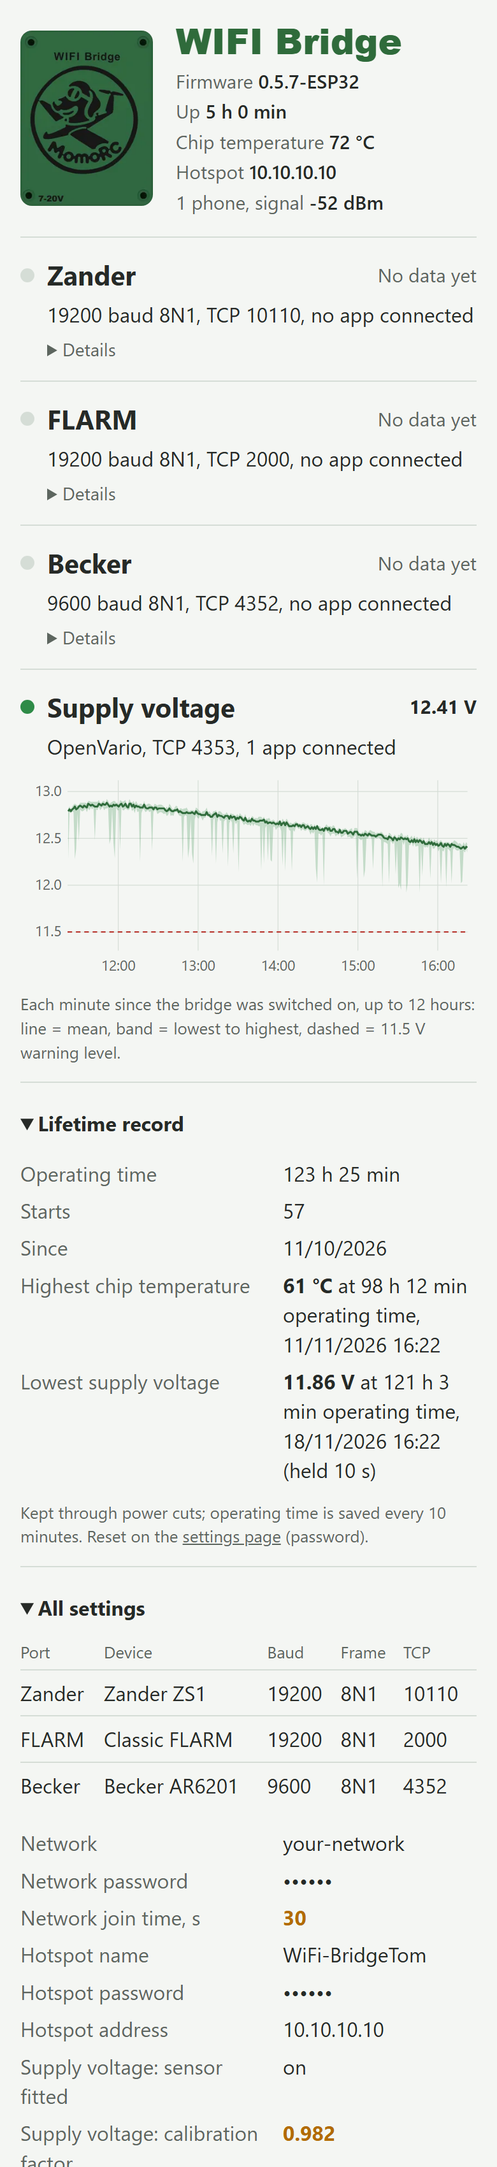
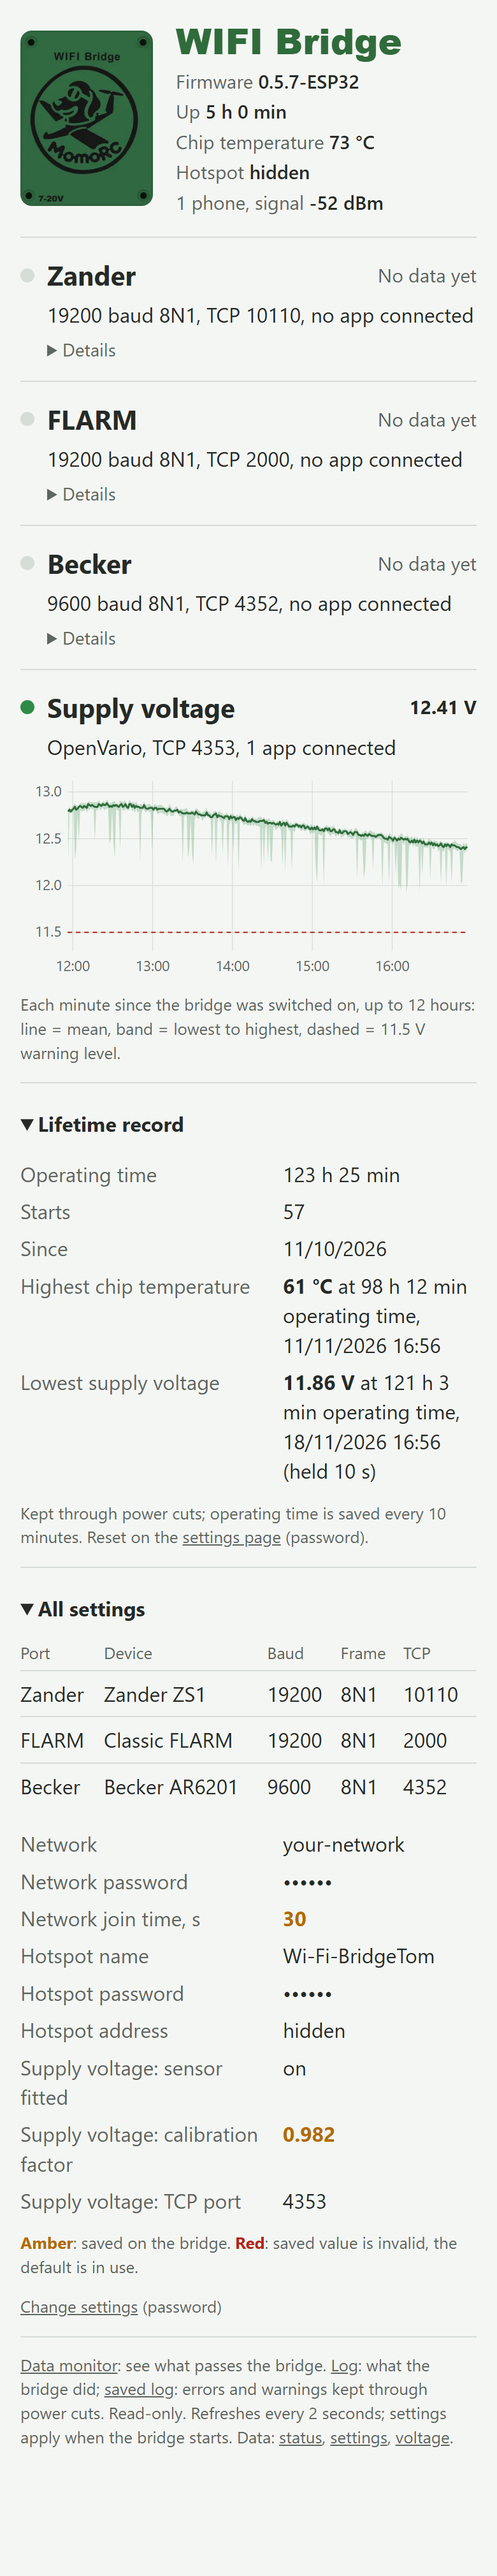
Record wired voltage checks in WP3
Record the wired XCSoar voltage, sensor-off, and chart restart checks in WP3, cite S158, and refresh the sanitized status and settings screenshots.

Owner-reported bench results: XCSoar displayed 12.1 V; the PC received nine checksum-valid sentences; 35 chart points and calibration survived both settings restarts; stored settings were restored. The live chart and refreshed screenshots were visually checked, relative links and whitespace were checked, and the monitor rerender was byte-identical. No firmware changed.

diff --git a/docs/project/roadmap.md b/docs/project/roadmap.md
@@ -7,7 +7,7 @@
 The single work queue: which work package comes next and what finishes it.
 
 > [!NOTE]
-> **Status:** WP3 continues with bench validation: the bench bridge is built and powered up (S141). In the [bridge firmware plan](#firmware-plan) (WP6), steps 1–3b are done. Step 3c, a web log, is done on the standalone ESP32. Step 3d, the [supply voltage](#supply-voltage) with its chart, is in firmware 0.5.1 on the standalone ESP32 (S123); wired readings are recorded in S142/S148. The full meter comparison and app display check remain. Step 3e shows the ESP32's [chip temperature](../../firmware/bridge/README.md#chip-temperature), firmware 0.5.2. Step 3f keeps a [lifetime record](../../firmware/bridge/README.md#lifetime-record) through power cuts, firmware 0.5.3; step 3g a [saved log](../../firmware/bridge/README.md#saved-log) of errors and warnings, firmware 0.5.4. The wired bridge runs firmware 0.5.7 with [navigation detection](#navigation-detection) (S154). Step 4 passed on the wired bridge (S150, S153). Step 5 acceptance remains. The software part of the device profiles (WP9) is brought forward and runs on the standalone ESP32. The driver packages (WP4, WP5) wait until WP3 is complete. Work outside the approved plan needs the owner's approval.
+> **Status:** WP3 continues with bench validation: the bench bridge is built and powered up (S141). In the [bridge firmware plan](#firmware-plan) (WP6), steps 1–3b are done. Step 3c, a web log, is done on the standalone ESP32. In step 3d, XCSoar displays the wired bridge voltage and the chart survives a settings restart (S158). See the [firmware plan](#firmware-plan) for the remaining checks. Step 3e shows the ESP32's [chip temperature](../../firmware/bridge/README.md#chip-temperature), firmware 0.5.2. Step 3f keeps a [lifetime record](../../firmware/bridge/README.md#lifetime-record) through power cuts, firmware 0.5.3; step 3g a [saved log](../../firmware/bridge/README.md#saved-log) of errors and warnings, firmware 0.5.4. The wired bridge runs firmware 0.5.7 with [navigation detection](#navigation-detection) (S154). Step 4 passed on the wired bridge (S150, S153). Step 5 acceptance remains. The software part of the device profiles (WP9) is brought forward and runs on the standalone ESP32. The driver packages (WP4, WP5) wait until WP3 is complete. Work outside the approved plan needs the owner's approval.
 
 📑 **On this page:** <kbd>[1 · 📦 Work packages](#work-packages)</kbd> <kbd>[2 · 💻 Bridge firmware plan](#firmware-plan)</kbd> <kbd>[3 · 🏁 Milestones](#milestones)</kbd> <kbd>[4 · ✅ Test coverage for the software phase](#test-coverage)</kbd>
 
@@ -131,7 +131,7 @@ Each step: build, upload over Wi-Fi, check, update the owning pages, commit.
 | 3a | ✅ **Settings page.** Stored settings and a password-protected page, [design](#settings-page). Four commits: settings module used at start-up; active values and their origin on the status page; settings page; bench checks | Bench ESP32, phone | With nothing stored, the step 2 loop test passes unchanged. A changed baud rate works after the restart and survives an OTA update. A wrong network falls back to the hotspot. An unconfirmed Wi-Fi, hotspot or port change reverts after 10 min. A wrong password saves nothing. Power loss during a save leaves the old or the new values, never a mix. Forwarding is unaffected with the page open. Reset restores the defaults. Done (S109–S111), except the power-loss check, which needs the owner to pull the USB cable during a save. Not fixed, by owner decision: a power cut during the rollback of an unkept trial can leave a mix of previous and default values, and a failed save reports success ([review](../research/reviews/2026-11-19-firmware-0.5.4-review.md#rollback), S138) |
 | 3b | ✅ **Data monitor.** Live view of the bytes from and to each device on its own page `/monitor`, [design](#data-monitor) | Bench ESP32, phone, PC | Looped test data appears on the monitor in the right port and direction, NMEA as readable lines and radio bytes as hex; Pause and Download work; the loop test passes with the monitor open; nothing is collected while no one watches. Done (S112): byte-exact with the monitor open. Pause and Download still to try on a phone |
 | 3c | ✅ **Web log.** Event log page `/log` with level and source filters, Copy and Save, kept across a restart, [design](#web-log) | Bench ESP32, phone, PC | Start-up, Wi-Fi, app, radio and settings events appear with the right level and source; the filters, Copy and Save work on the phone; lines from before a restart stay readable with the reset reason; the loop test passes with the log open; nothing reaches a UART. Done (S116–S118); Copy and Save still to try on a phone |
-| 3d | **Supply voltage.** Measure the 12 V input and send it to OpenSoar on its own port, with a chart, [design](#supply-voltage). Firmware 0.5.1: settings, sensor-off behaviour, restart and loop test checked without a divider (S123). Wired bridge calibrated at 12.0 V, factor 0.982 (S142); error table recorded (S148) | Standalone ESP32 with the divider on a breadboard, bench supply, multimeter, phone with XCSoar or OpenSoar (same OpenVario voltage parsing, S155) | Readings match the meter at 7, 12, 14.6 and 20 V within about ±0.1 V after calibration (error table recorded); the OpenVario device on port 4353 shows the voltage in XCSoar or OpenSoar; the chart shows the minutes since start and survives a restart; with the sensor switched off nothing is sent; calibration survives a restart and an OTA update; the loop test passes with the voltage port connected; new page screenshots |
+| 3d | **Supply voltage.** Measure the 12 V input and send it to OpenSoar on its own port, with a chart, [design](#supply-voltage). Wired bridge: XCSoar display, chart retention, sensor switch and screenshots checked (S158). Calibration survived OTA (S142). The XT30 meter check covers 12 V (S142). Bench step 13 used the supply display up to 18 V (S148). The loop with a voltage client passed on the standalone ESP32 (S123) and awaits the wired bench run | Standalone ESP32 with the divider on a breadboard, bench supply, multimeter, phone with XCSoar or OpenSoar (same OpenVario voltage parsing, S155) | Readings match the meter at 7, 12, 14.6 and 20 V within about ±0.1 V after calibration (error table recorded); the OpenVario device on port 4353 shows the voltage in XCSoar or OpenSoar; the chart shows the minutes since start and survives a restart; with the sensor switched off nothing is sent; calibration survives a restart and an OTA update; the loop test passes with the voltage port connected; new page screenshots |
 | 3e | **Chip temperature.** Show the ESP32's own temperature on the status page and in the web log; no shutdown, [firmware](../../firmware/bridge/README.md#chip-temperature). Firmware 0.5.2: reading, log lines and loop test checked on the standalone ESP32 (S132) | Standalone ESP32, phone; wired bridge for the heat check | The page and `/api/status` show a value or *no reading*; the log has the first reading; the loop test passes; new page screenshots. In the [heat check](open-items.md#housing) the chip reading is logged next to the measured temperatures. Warning level 100 °C by owner decision, firmware 0.5.6 (S142) |
 | 3f | **Lifetime record.** Operating time, starts, highest chip temperature and lowest supply voltage kept in NVS through power cuts; shown on the status page, reset on the settings page, [firmware](../../firmware/bridge/README.md#lifetime-record). Firmware 0.5.3: records test, restart and write load checked (S134) | Standalone ESP32, phone | `tools/records_test.py` passes: password, reset, kept through a restart with one more start; values kept after pulling the USB cable; the acceptance test passes while the record is written every 2 s; new page screenshots |
 | 3g | **Saved log.** Errors, warnings and each start kept in LittleFS through power cuts, page `/saved`, cleared on the settings page, [firmware](../../firmware/bridge/README.md#saved-log). Firmware 0.5.4: records test, restart and write load checked (S135) | Standalone ESP32, phone | `tools/records_test.py` passes: start line and a warning saved, kept through a restart, clearing needs the password; lines kept after pulling the USB cable; the acceptance test passes while warnings are saved; new page screenshots |

diff --git a/docs/research/sources.md b/docs/research/sources.md
@@ -185,6 +185,7 @@ New evidence records the revision or page, the date, what was checked and its la
 | S155 | `src/Device/Driver/OpenVario.cpp`, master branches of [XCSoar](https://github.com/XCSoar/XCSoar/blob/master/src/Device/Driver/OpenVario.cpp) and [OpenSoar](https://github.com/OpenSoaring/OpenSoar/blob/master/src/Device/Driver/OpenVario.cpp), read 2026-11-20 | Both `POV()` parsers handle type `V` with the same code: the value goes to `info.voltage` and sets `voltage_available`, with no unit conversion. XCSoar also handles types the OpenSoar version lacks (`a`, `g`, `L`, `e`). Not checked: the installed app versions, the InfoBox that shows the value. |
 | S156 | Owner report on the assembled bench bridge, 2026-11-20 | Housing fit and assembly of the bench build: boards, connectors, UBEC, internal wiring and hood all fit; nothing needed rework. Not checked: retention under vibration and at loaded temperature. |
 | S157 | Owner report, 2026-11-20, assembled bench bridge | WP3 [bench step 8](../hardware/wiring.md#bring-up) passed: DE-9 signal isolation and continuity between ground pins 3, 6 and 7. |
+| S158 | Assembled bench bridge, firmware 0.5.7, 2026-11-20. Owner’s XCSoar Battery InfoBox screenshot, bridge status and [supply test](../../tools/supply_test.py) on OpenVario TCP 4353 | XCSoar displayed **12.1 V** above the phone’s 9% battery level. The bridge reported 12.06 V. The PC received nine checksum-valid voltage sentences in 10 s (12.03–12.06 V). All 35 completed minute points and calibration factor 0.982 survived both settings restarts (sensor off, then on). With the sensor off the bridge reported no voltage and the port was closed. After restoration the settings matched the starting values. The live status page rendered 36 mean points with a min/max band and clock labels. The status, settings and monitor documentation images were rendered separately with masked network details and demo data. |
 
 ---
 
